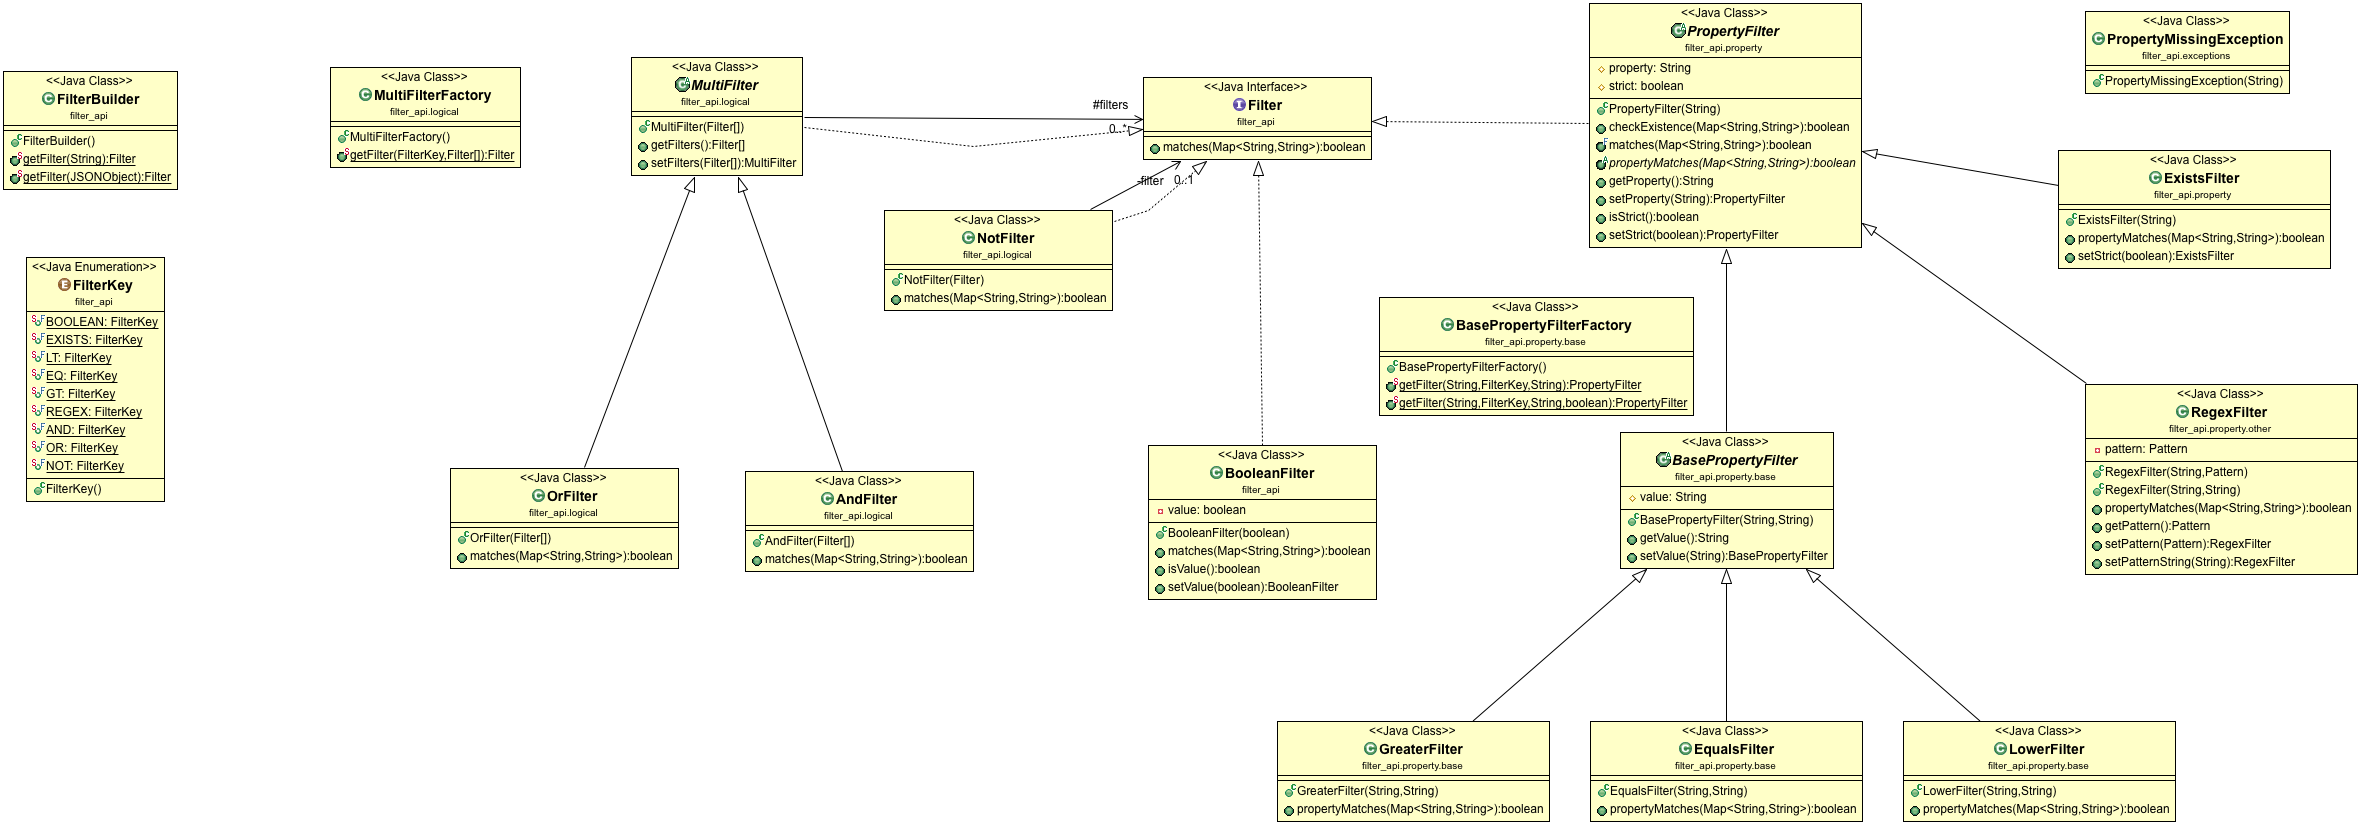
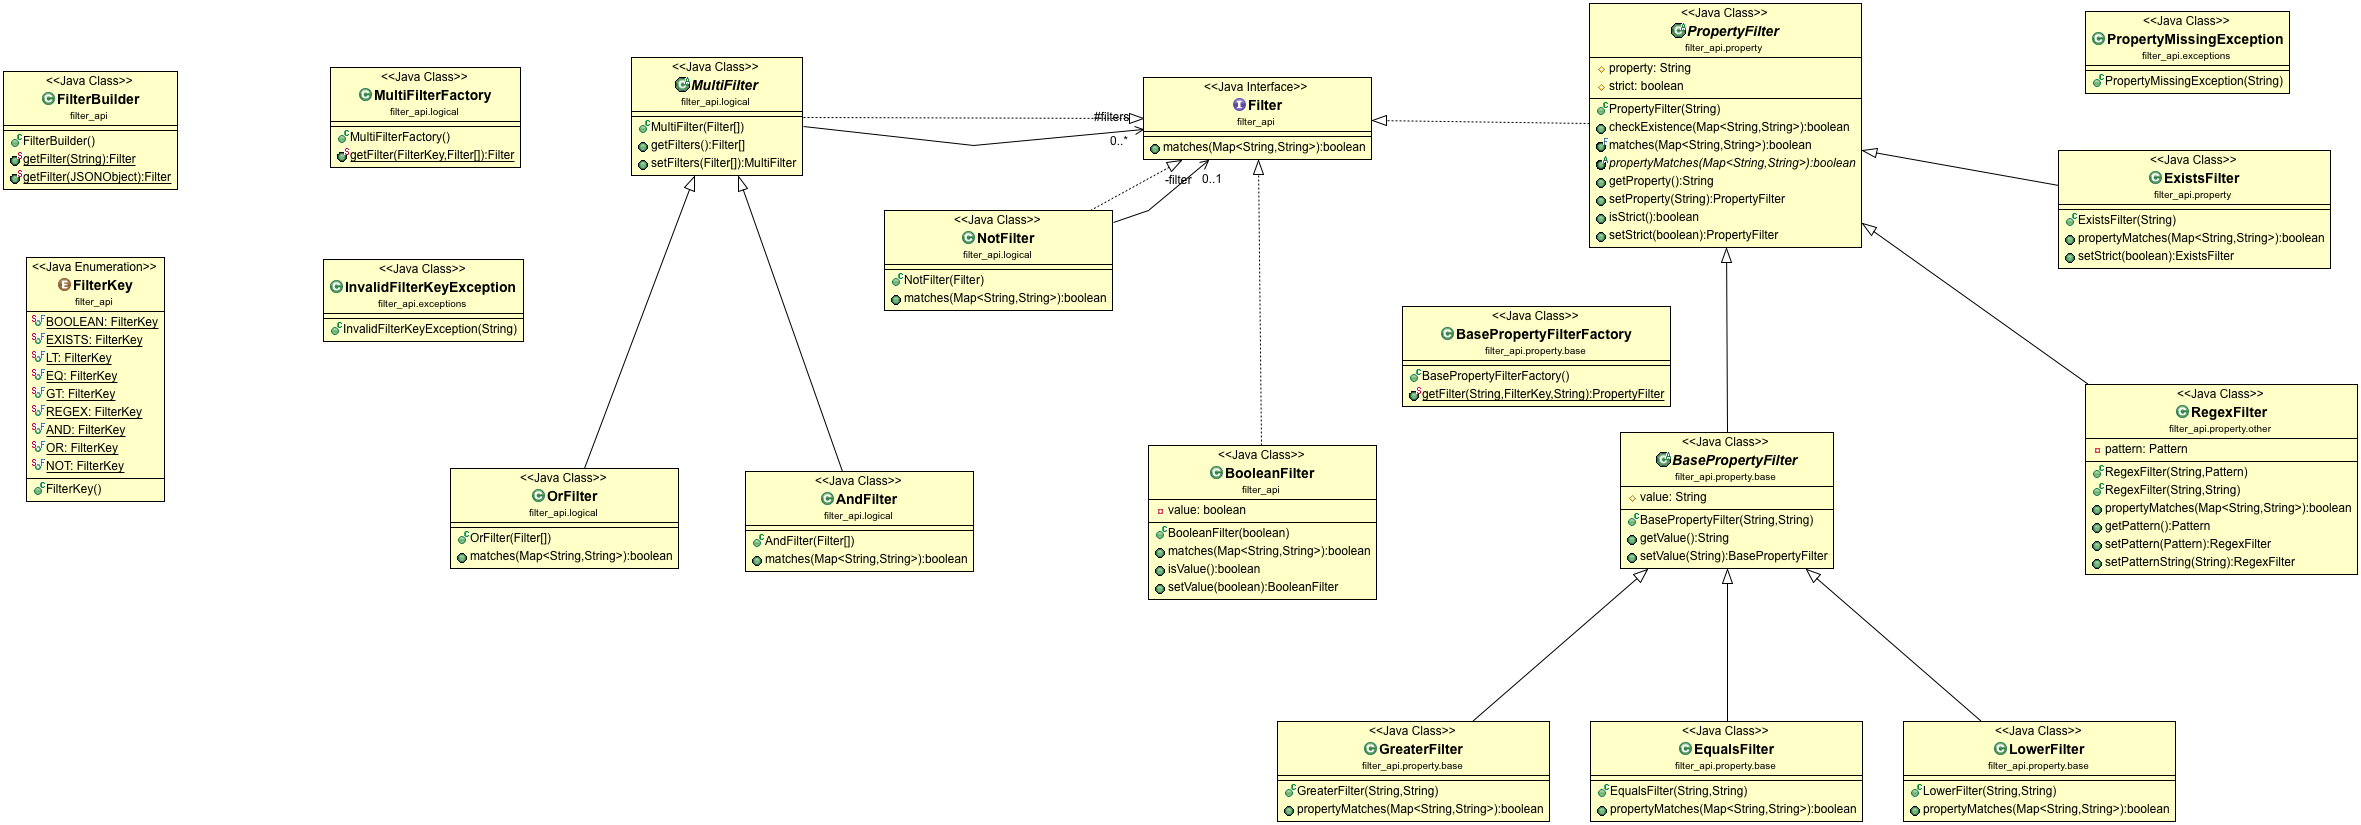
readme

diff --git a/README.md b/README.md
@@ -1,0 +1,56 @@
+# Filter API
+
+## Description
+
+An application manages access to “resource” objects (e.g a user) and we need to provide a Java API for querying the set of available resources. 
+
+One of the requirements for the query API is to have filtering functionality allowing clients to select resources which match certain criteria. 
+
+For the sake of simplicity, a “resource” is represented using a `Map<String,String>` which maps “property” names (keys) to their values. Property names are case sensitive, but property values are not.
+
+## Task
+
+Design and implement a “Filter” API which can be used to determine whether or not a resource matches a given set of criteria. More specifically, the filter API should provide the following functionality:
+
+The ability to determine whether or not a filter matches a given resource (where a resource is represented using a `Map<String,String>`).
+
+
+## Support
+
+1. boolean literals: true and false
+2. logical operators which can be used to combine the results of other filters
+  - AND 
+  - OR
+  - NOT
+3. comparison operators (care should be taken to deal with missing properties)
+  - property is present
+  - property is equal to some value
+  - property is less than some value
+  - property is greater than some value
+  - property matches a regular expression
+4. the ability to programmatically construct arbitrarily complex filters
+5. a string representation, including the ability to generate and parse filters from the string representation
+
+## Implementation
+
+In a nutshell: all filters implement a common `Filter` interface and offer a `matches` method that contains the logic of each specific filter; all filters can be combined with AND, OR and NOT logical operator.
+
+See `/resources/model.png` for the UML Class Diagram and take a look at the JavaDoc for more details.
+
+
+## Extensibility
+
+1. **Consider how the API could be extended to include support for new types of filter.**
+If a new type of filter is needed, the new class must implement the Filter interface. 
+In case the Filter uses some property of the input resource, the PropertyFilter abstract class must be used in order to exploit the property existence checks already implemented. 
+In the case the new filter has a String (or JSON) representation that needs to be parsed, a new FilterKey must be added to the related Enum, as well as the code to parse it in the FilterBuilder class.
+
+2. **Consider how the API could support 3rd party applications which need to perform some logic based on the structure and content of a filter in a type-safe manner.**
+The filters are highly structured and all the logic is reduced to the a few lines of code which define the actual behavior of each filter. 
+A complex filter is represented by different series of filters organized with logical operators and in a modular manner.
+To manage the logic of such complex filters, a 3rd party application could act on each simple filter individually, defining additional behavior/functionalites independently.
+
+
+## Example
+
+The main example can be found in the `/test/filter_api/FilterApiTest.java` JUnit 4 file.
